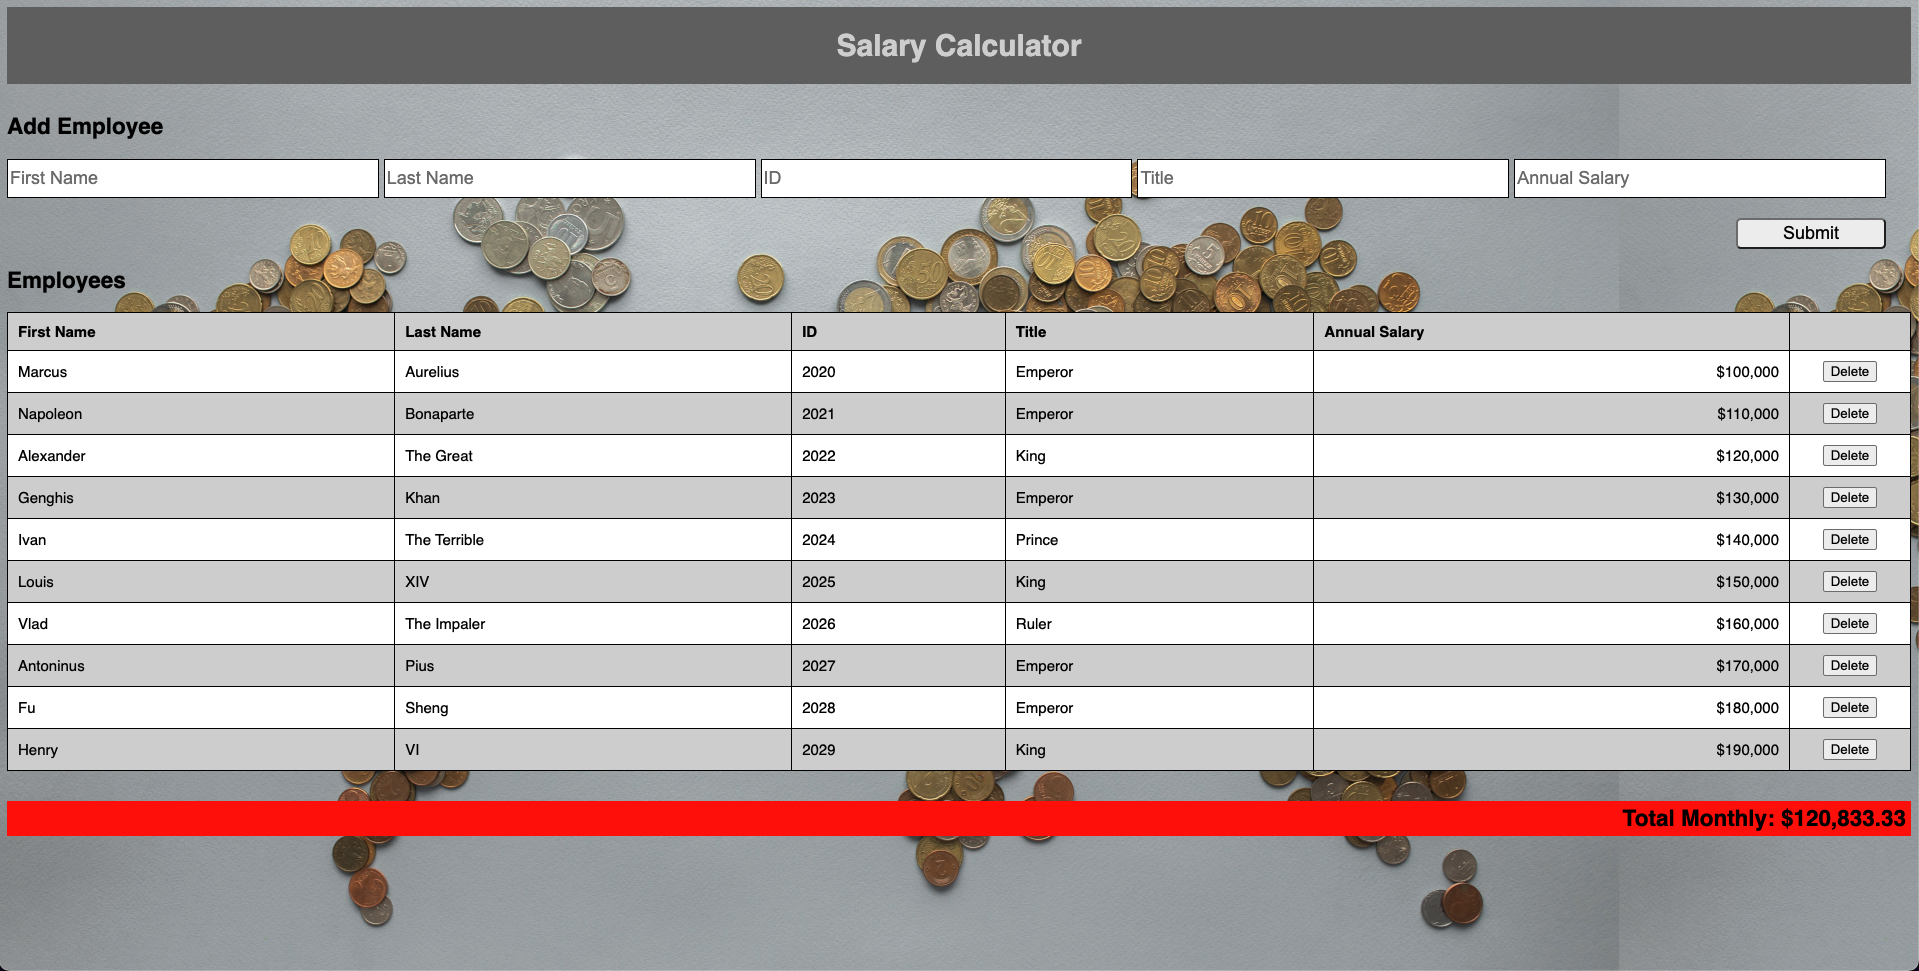
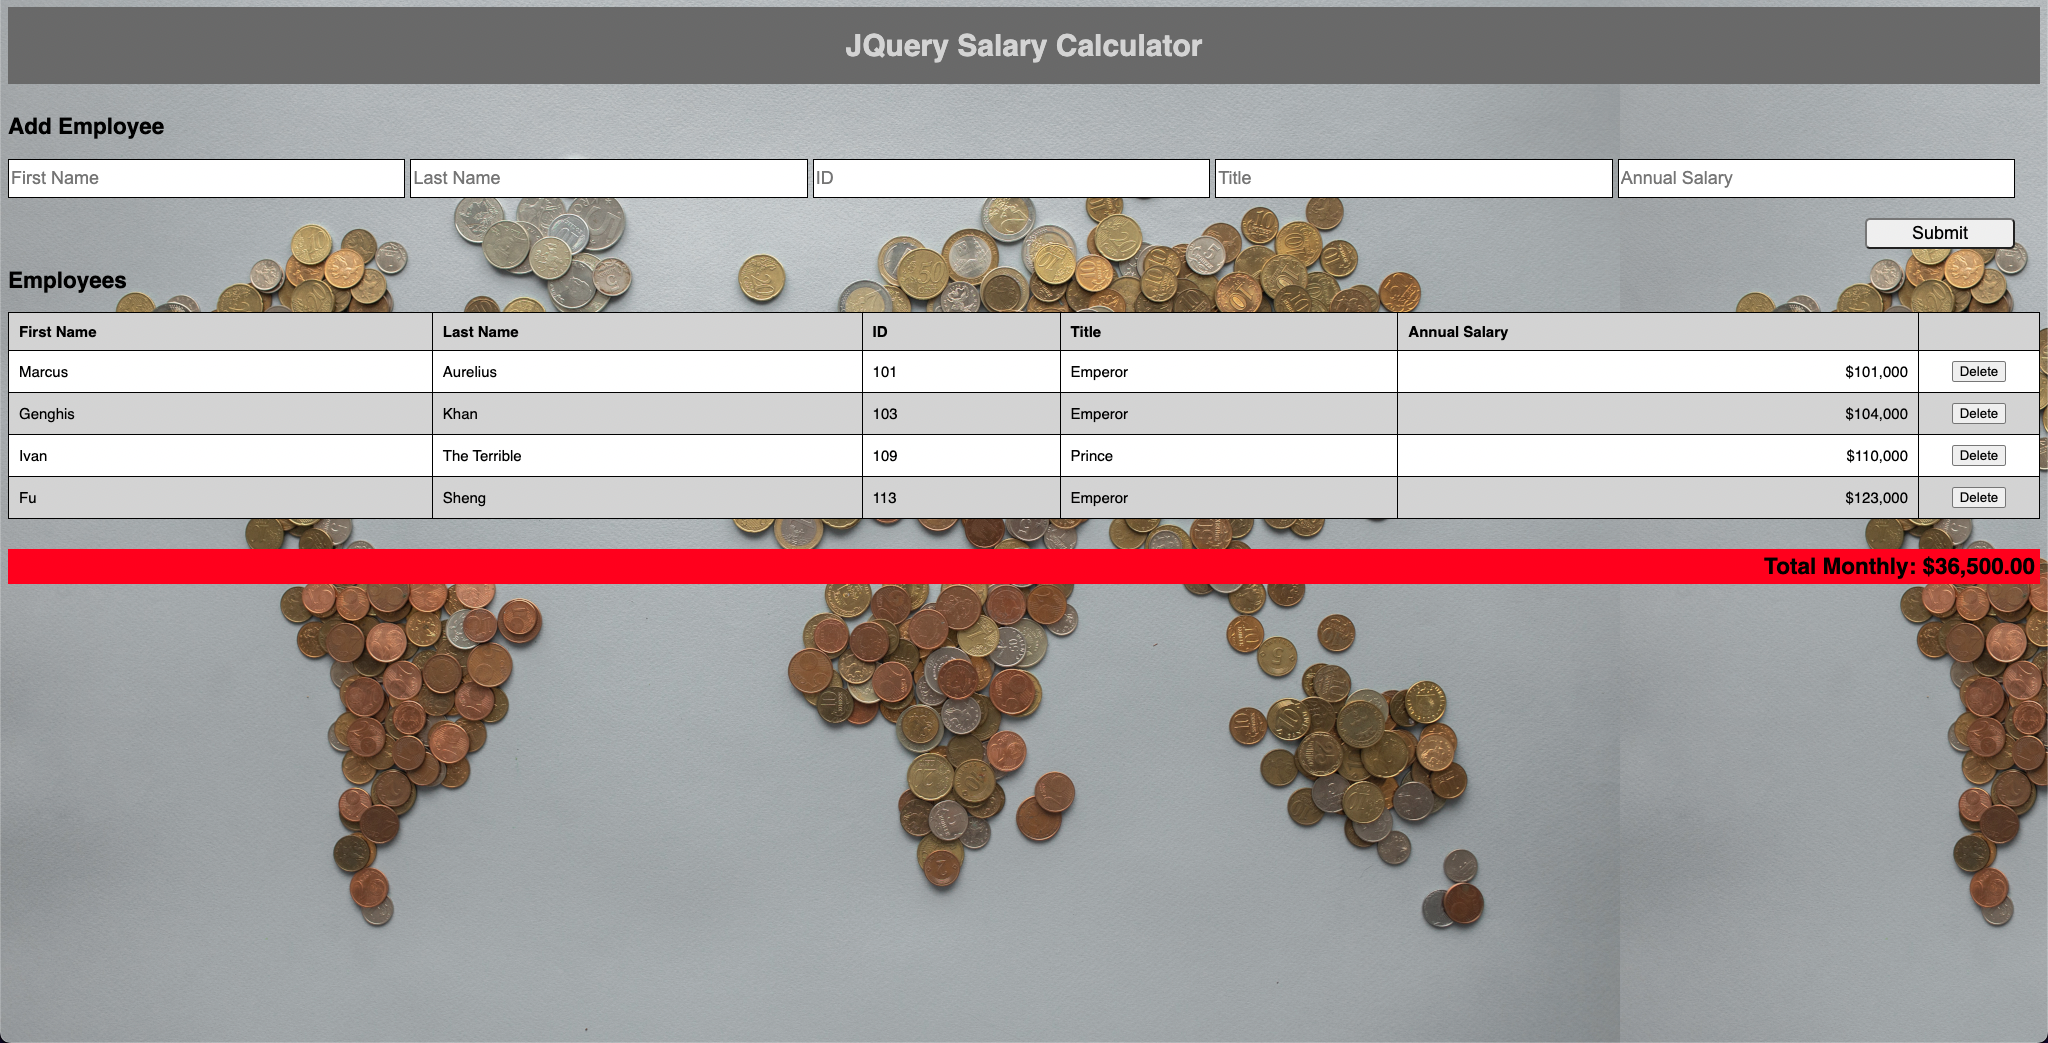
Changed README.md.

diff --git a/index.html b/index.html
@@ -7,11 +7,11 @@
     <link rel="stylesheet" type="text/css" href="styles/style.css">
     <script src="vendors/jquery-3.6.0.min.js"></script>
     <script src="scripts/script.js"></script>
-    <title>JQuery Salaries Calculator</title>
+    <title>JQuery Salary Calculator</title>
 </head>
 <body>
     <div id="mainTitleDiv">
-        <h1>Salary Calculator</h1>
+        <h1>JQuery Salary Calculator</h1>
     </div>
     <h2 id="addEmployeeTitle">Add Employee</h2>
     <div id="addEmployeeInputDiv">

diff --git a/README.md b/README.md
@@ -1,5 +1,9 @@
 # Jquery Salary Calculator
 
+## Heroku Link
+
+[Jquery Salary Calculator](https://jquery-calculator-1.herokuapp.com/)
+
 ## Description
 
 This is a web app designed to take in employee information and display it on the DOM in an organized table. The overall monthly salaries for all employees are calculated at the bottom of the page. Once the total monthly salaries exceed $20,000.00, the background color of this calculation turns red. You can add/remove employees as you wish.
